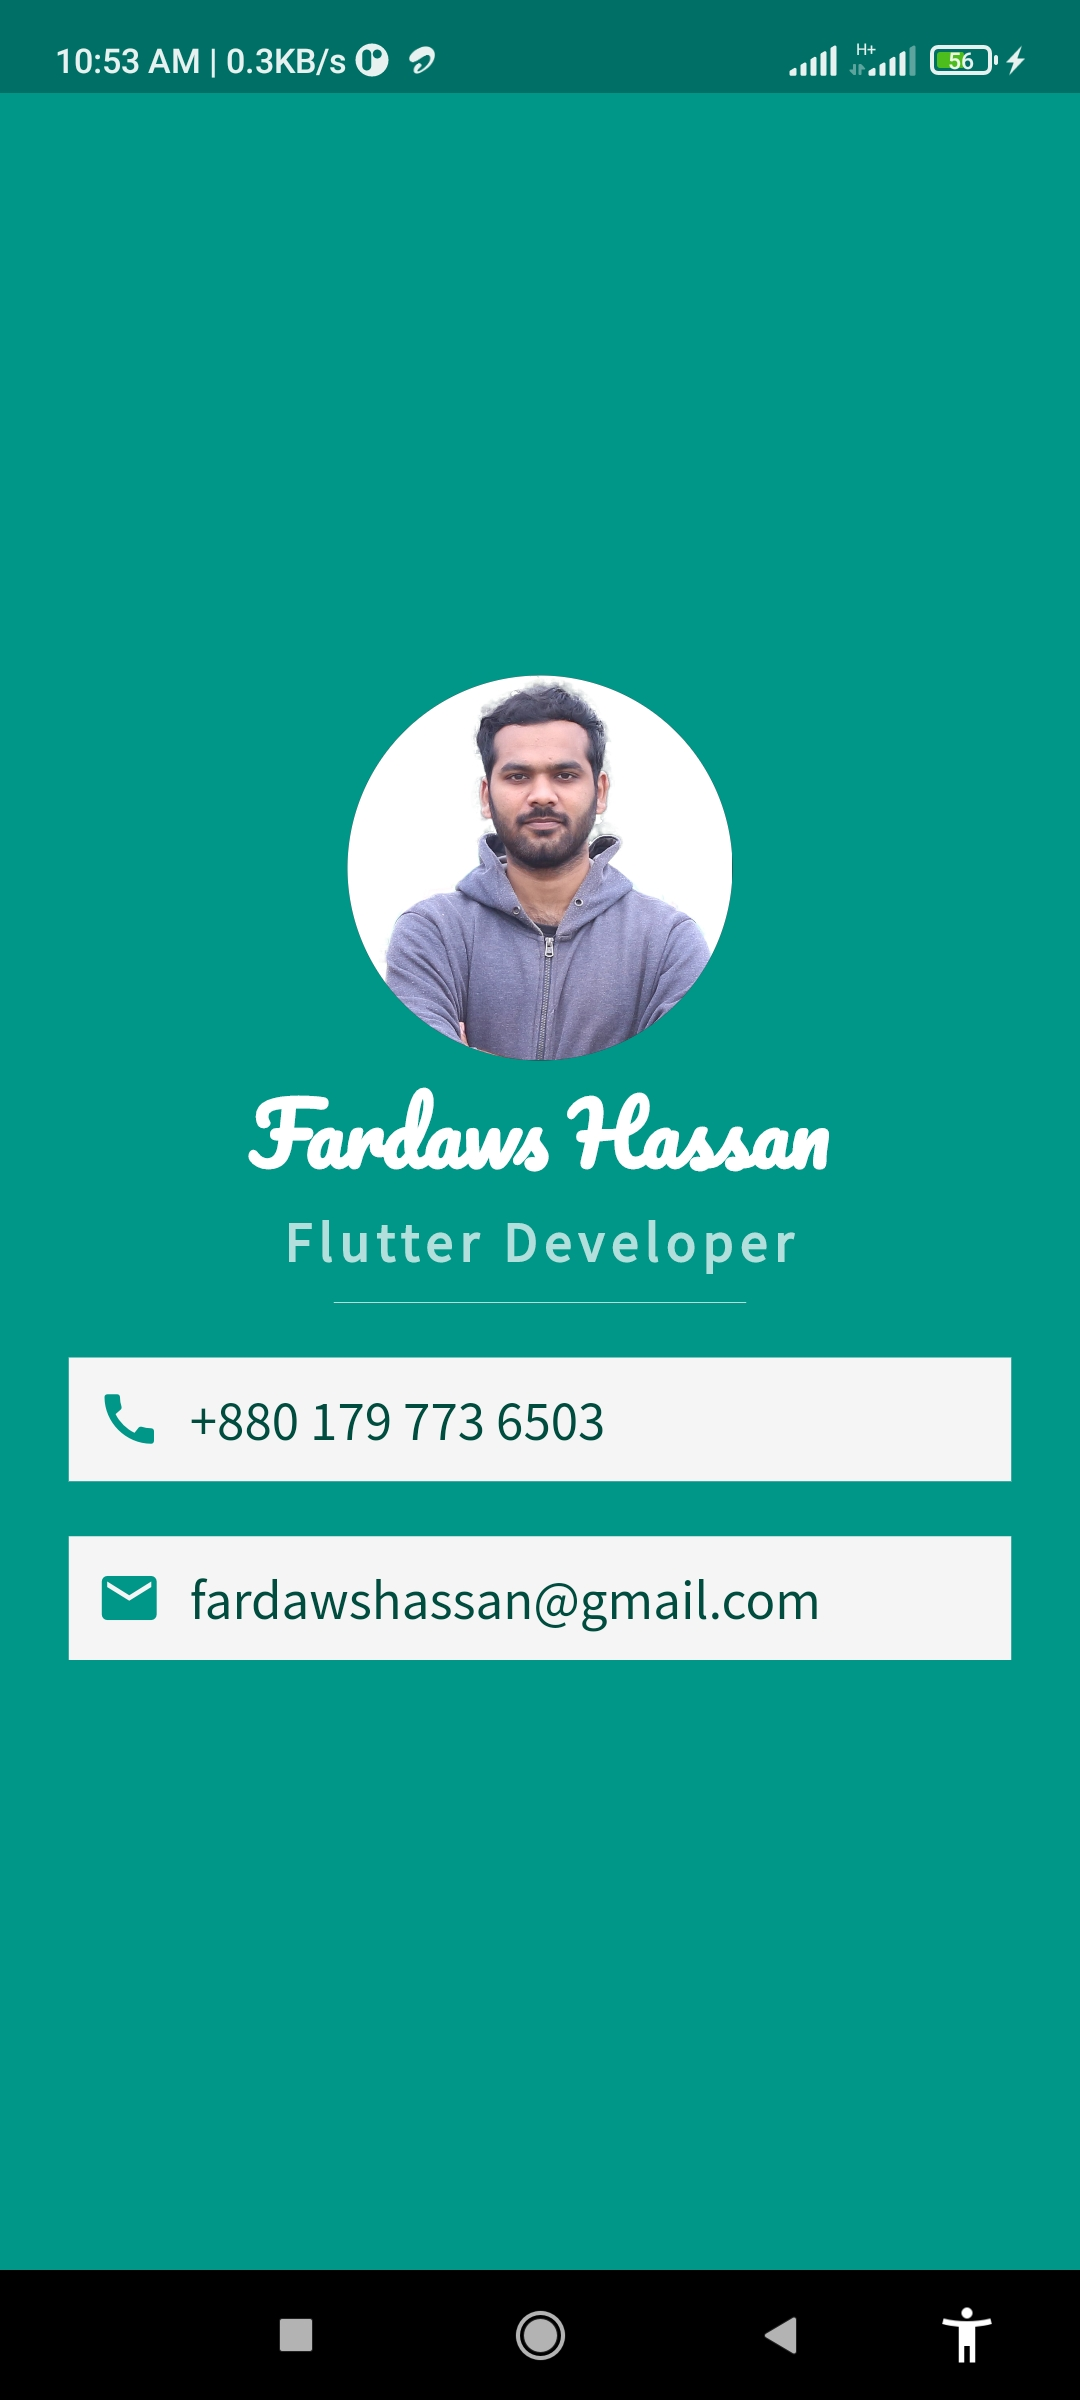
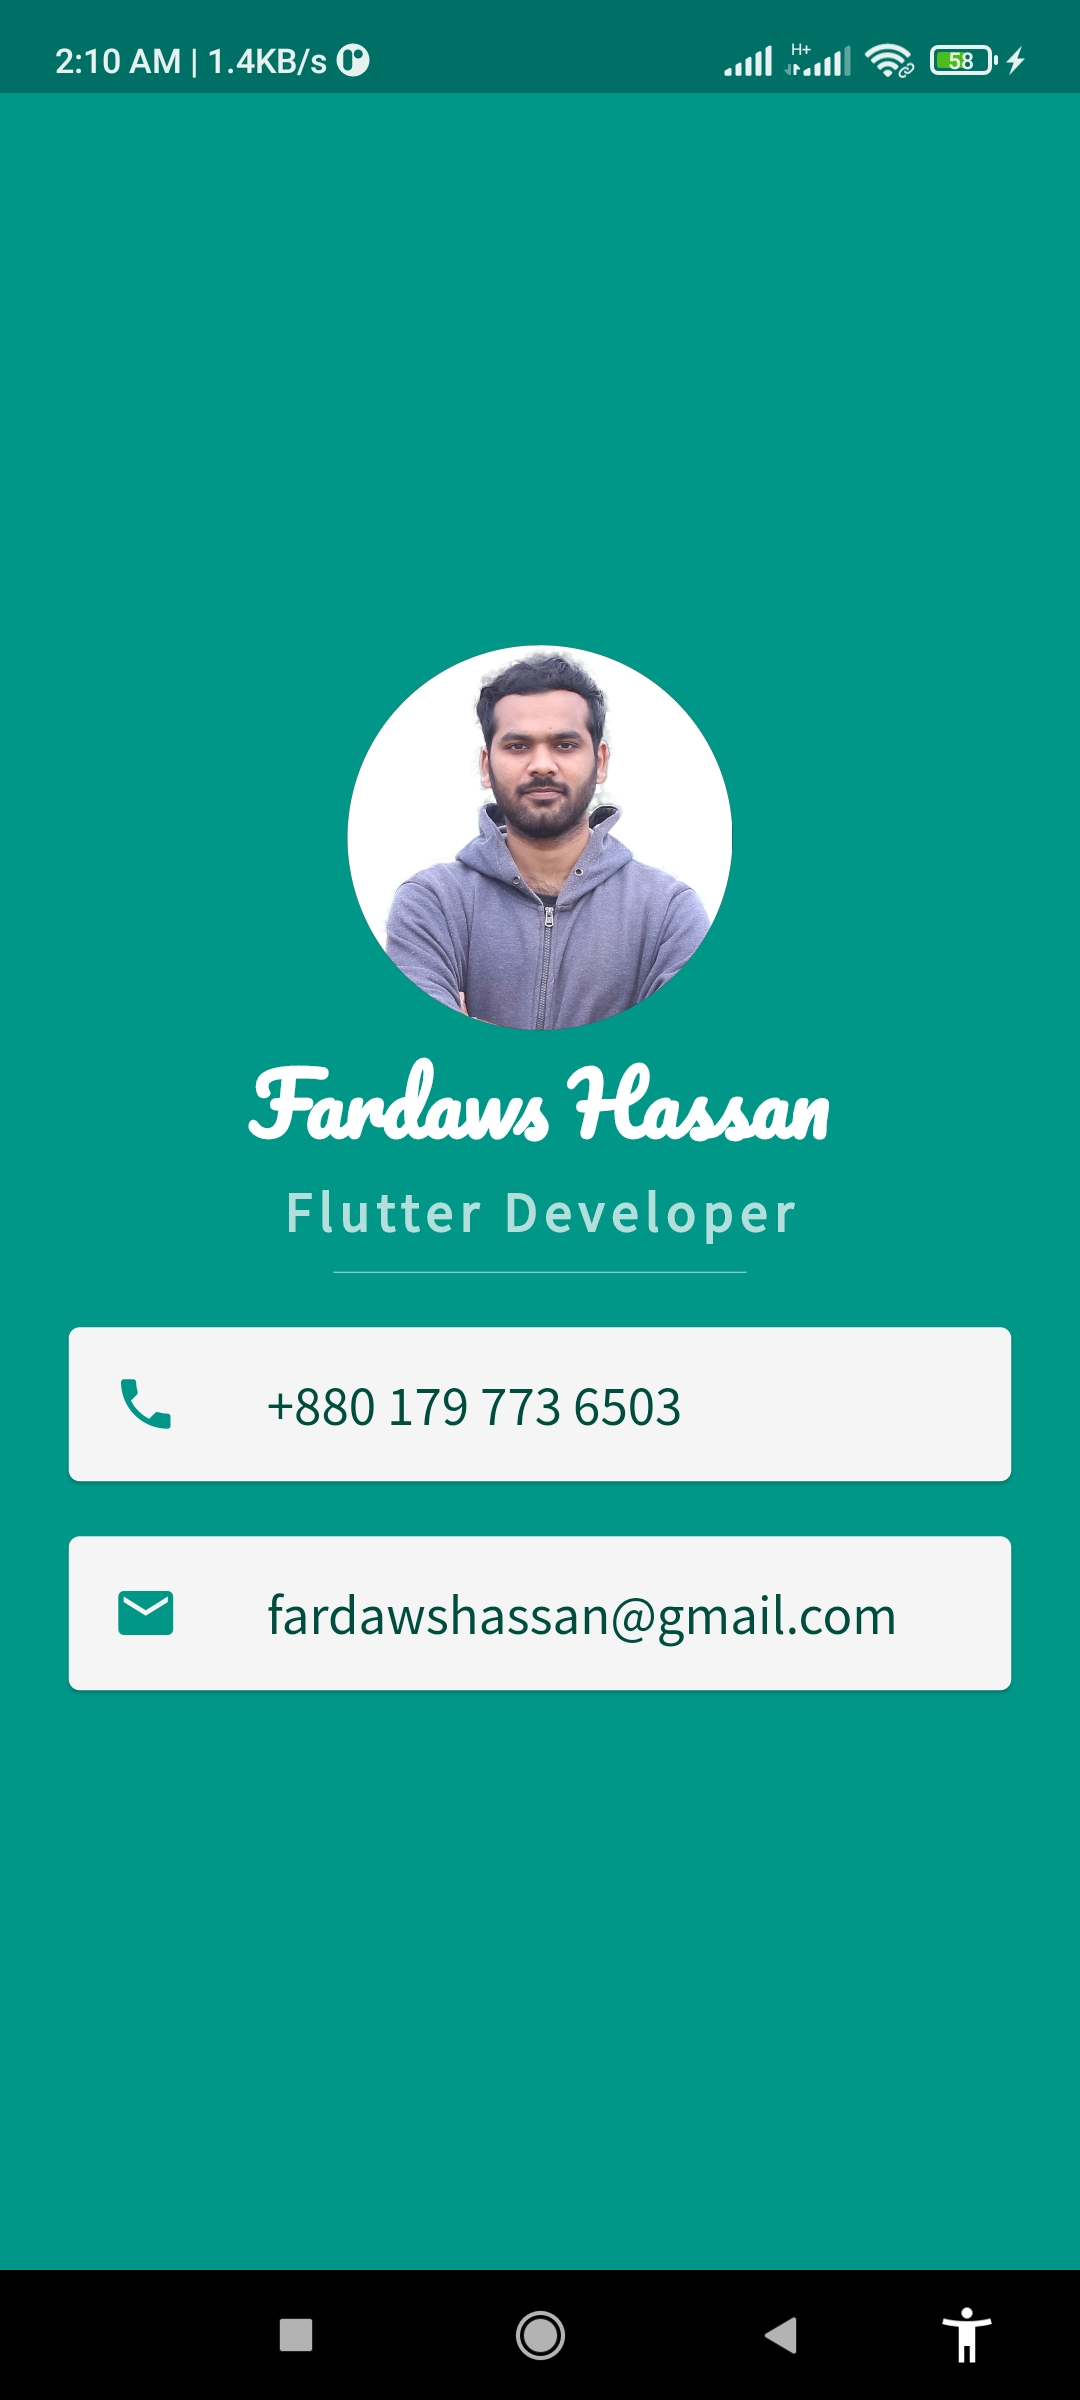
updated using Card and ListTile

diff --git a/beta_p/lib/main.dart b/beta_p/lib/main.dart
@@ -41,52 +41,40 @@ void main() {
                   color: Colors.teal.shade100,
                 ),
               ),
-              Container(
+              Card(
                 color: Colors.grey.shade100,
-                padding: EdgeInsets.all(10),
                 margin: EdgeInsets.symmetric(horizontal: 25, vertical: 10),
-                child: Row(
-                  children: [
-                    Icon(
-                      Icons.call,
-                      color: Colors.teal,
+                child: ListTile(
+                  leading: Icon(
+                    Icons.phone,
+                    color: Colors.teal,
+                  ),
+                  title: Text(
+                    '+880 179 773 6503',
+                    style: TextStyle(
+                      fontFamily: 'SourceSansPro',
+                      fontSize: 20,
+                      color: Colors.teal.shade900,
                     ),
-                    SizedBox(
-                      width: 10,
-                    ),
-                    Text(
-                      '+880 179 773 6503',
-                      style: TextStyle(
-                        fontFamily: 'SourceSansPro',
-                        fontSize: 20,
-                        color: Colors.teal.shade900,
-                      ),
-                    )
-                  ],
+                  ),
                 ),
               ),
-              Container(
+              Card(
                 color: Colors.grey.shade100,
-                padding: EdgeInsets.all(10),
                 margin: EdgeInsets.symmetric(horizontal: 25, vertical: 10),
-                child: Row(
-                  children: [
-                    Icon(
-                      Icons.email,
-                      color: Colors.teal,
+                child: ListTile(
+                  leading: Icon(
+                    Icons.email,
+                    color: Colors.teal,
+                  ),
+                  title: Text(
+                    'fardawshassan@gmail.com',
+                    style: TextStyle(
+                      fontFamily: 'SourceSansPro',
+                      fontSize: 20,
+                      color: Colors.teal.shade900,
                     ),
-                    SizedBox(
-                      width: 10,
-                    ),
-                    Text(
-                      'fardawshassan@gmail.com',
-                      style: TextStyle(
-                        fontFamily: 'SourceSansPro',
-                        fontSize: 20,
-                        color: Colors.teal.shade900,
-                      ),
-                    ),
-                  ],
+                  ),
                 ),
               ),
             ],
@@ -96,3 +84,55 @@ void main() {
     ),
   );
 }
+
+
+
+
+// Container(
+//                 color: Colors.grey.shade100,
+//                 padding: EdgeInsets.all(10),
+//                 margin: EdgeInsets.symmetric(horizontal: 25, vertical: 10),
+//                 child: Row(
+//                   children: [
+//                     Icon(
+//                       Icons.call,
+//                       color: Colors.teal,
+//                     ),
+//                     SizedBox(
+//                       width: 10,
+//                     ),
+//                     Text(
+//                       '+880 179 773 6503',
+//                       style: TextStyle(
+//                         fontFamily: 'SourceSansPro',
+//                         fontSize: 20,
+//                         color: Colors.teal.shade900,
+//                       ),
+//                     )
+//                   ],
+//                 ),
+//               ),
+//               Container(
+//                 color: Colors.grey.shade100,
+//                 padding: EdgeInsets.all(10),
+//                 margin: EdgeInsets.symmetric(horizontal: 25, vertical: 10),
+//                 child: Row(
+//                   children: [
+//                     Icon(
+//                       Icons.email,
+//                       color: Colors.teal,
+//                     ),
+//                     SizedBox(
+//                       width: 10,
+//                     ),
+//                     Text(
+//                       'fardawshassan@gmail.com',
+//                       style: TextStyle(
+//                         fontFamily: 'SourceSansPro',
+//                         fontSize: 20,
+//                         color: Colors.teal.shade900,
+//                       ),
+//                     ),
+//                   ],
+//                 ),
+//               ),
